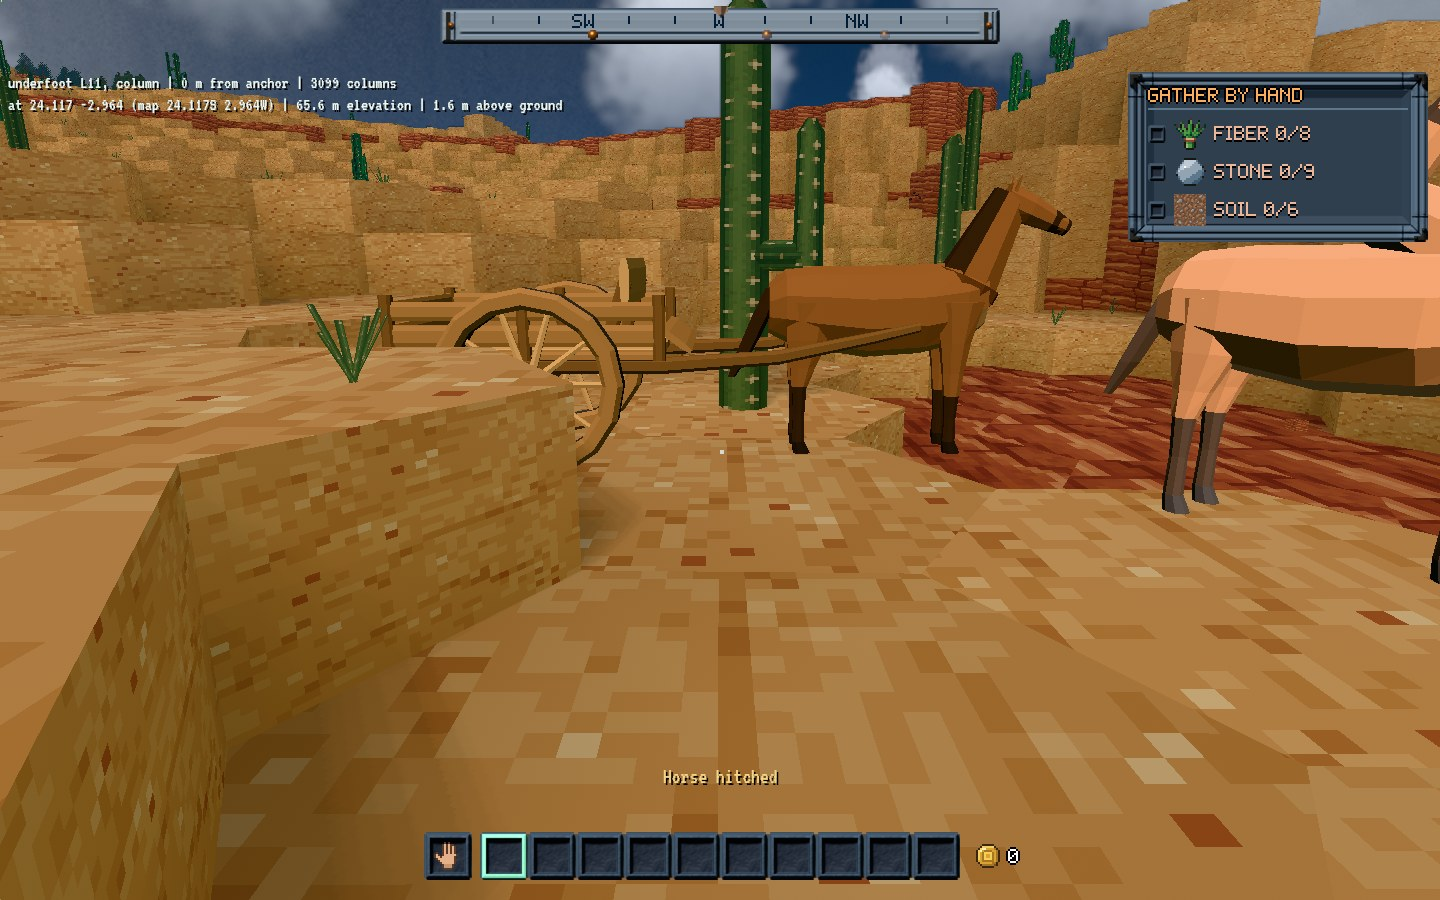
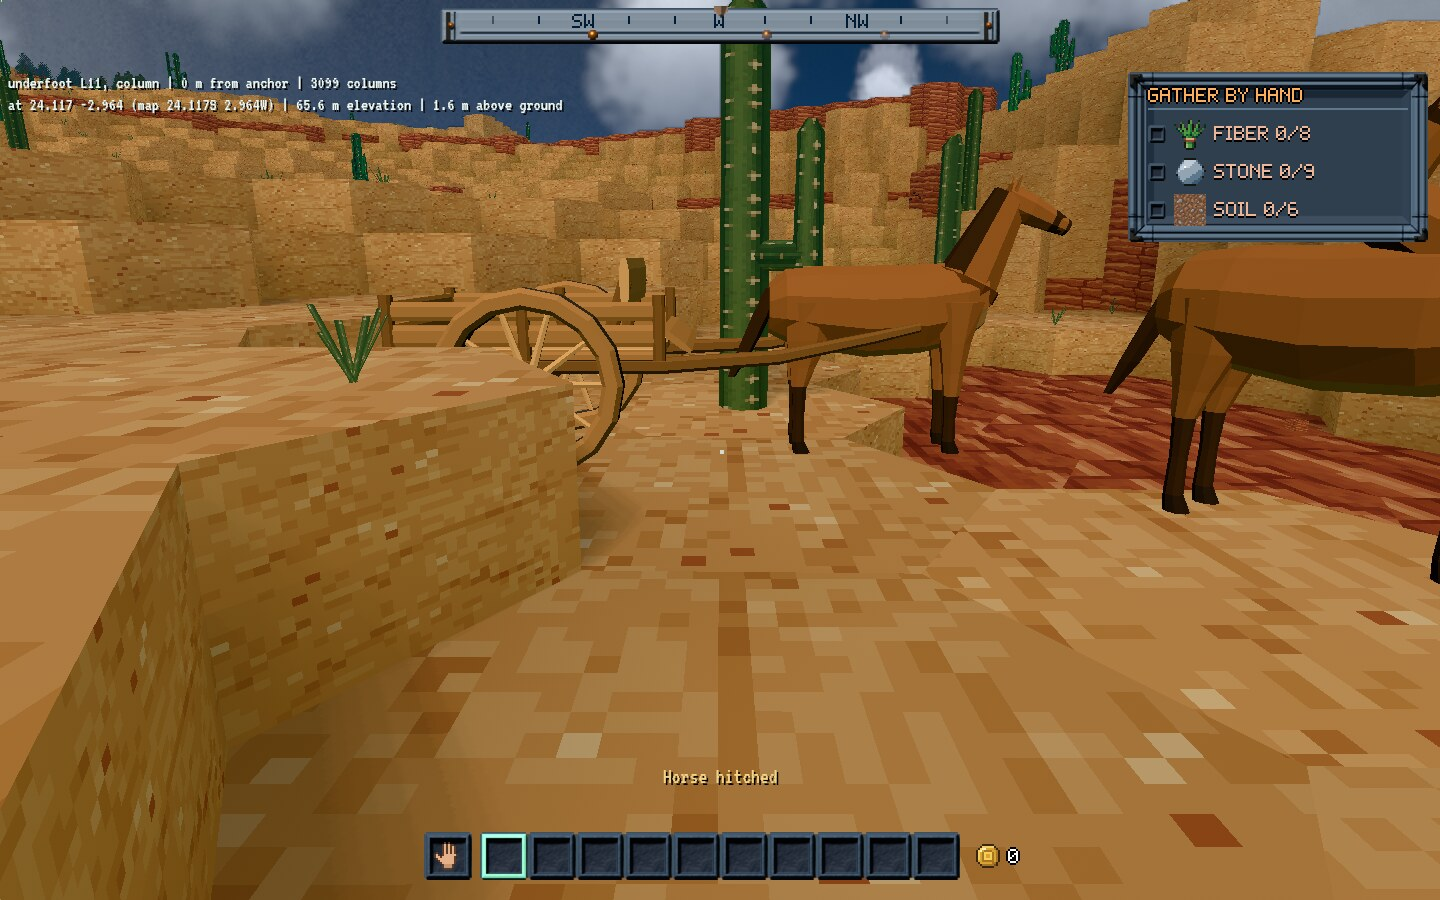
Herd lit as the terrain is
The farmyard's loose horse showed far paler than the hitched one: the herd,
its fences and its pen carried LitByField without LitLikeTerrain, so Bevy's
own picture lit them. They and their prewarm templates carry both now
(animal-husbandry design 15). Capture retaken.

Claude-Session: https://claude.ai/code/session_01RGPQut43HZDbTofZKV6sxg

Changed region(s): [[0.7812, 0.1244, 1.0, 0.5911], [0.75, 0.4044, 0.7812, 0.4356]]

diff --git a/crates/pbd-app/src/husbandry.rs b/crates/pbd-app/src/husbandry.rs
@@ -19,7 +19,7 @@ pub mod rig;
 pub use breed::BreedingPick;
 
 use crate::config::HusbandryConfig;
-use crate::field_light::{Faded, LitByField};
+use crate::field_light::{Faded, LitByField, LitLikeTerrain};
 use crate::hotbar::Hotbar;
 use crate::planet::{PLANET_RADIUS, PlanetContact, PlanetFine, PlanetRenderFrame};
 use crate::saves::WorldSave;
@@ -554,6 +554,7 @@ fn spawn(
             .spawn((
                 Name::new("Pen prewarm template"),
                 LitByField,
+                LitLikeTerrain,
                 Faded(1.0),
                 Transform::from_xyz(0.0, -1.0e5, 0.0),
                 Visibility::Hidden,
@@ -592,6 +593,7 @@ fn spawn(
         .spawn((
             Name::new("Husbandry prewarm template"),
             LitByField,
+            LitLikeTerrain,
             Faded(1.0),
             Transform::from_xyz(0.0, -1.0e5, 0.0),
             Visibility::Hidden,
@@ -605,6 +607,7 @@ fn spawn(
         Name::new("Fences"),
         FenceRoot,
         LitByField,
+        LitLikeTerrain,
         Transform::default(),
         Visibility::default(),
     ));
@@ -1994,6 +1997,7 @@ fn draw(
                     .spawn((
                         Name::new(sp.id.clone()),
                         LitByField,
+                        LitLikeTerrain,
                         Faded(1.0 - b.shown),
                         place,
                         Visibility::default(),

diff --git a/openspec/changes/animal-husbandry/design.md b/openspec/changes/animal-husbandry/design.md
@@ -600,6 +600,16 @@ its hide.
   the world's copy loses the outline, CLAUDE.md "No outlines in the world"),
   and that is its own step, listed as task 9.2.
 
+## 15. The herd is lit as the terrain is (2026-11-23)
+
+The carts' captures showed a loose horse in the farmyard far paler than the
+same horse hitched to its cart: the herd, its fences and its pen took only
+`LitByField`, so Bevy's own picture lit them and they glowed against the
+ground. CLAUDE.md ("Everything in the world is lit as the terrain is") wants
+`LitLikeTerrain` beside it on every creature and prop, so the herd's roots,
+the fence root and their pipeline prewarm templates carry both. Nothing a
+rule reads changes; only the look, back to what the rule already demands.
+
 ## Risks / Trade-offs
 
 - **Scope.** This is a large system. The tasks put it in slices: records and
